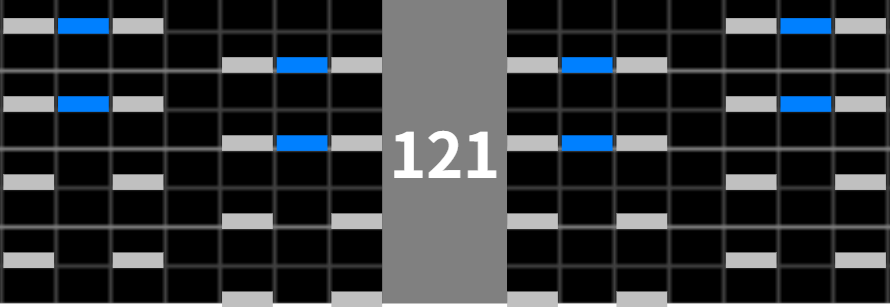
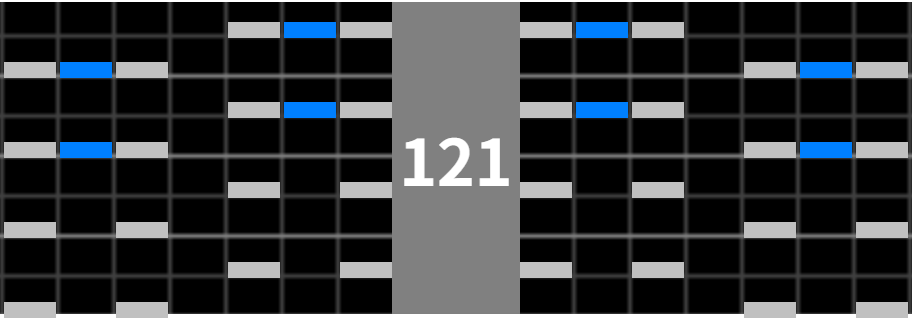
コラムとTOP説明文追加、その他軽微な修正

diff --git a/dbr_column.html b/dbr_column.html
@@ -118,10 +118,10 @@
     </div>
 
     <p>その後DBR難易度表の計画は実質的に停止しましたが、すでにある程度整備されておりそのままにしておくのは惜しい状態でした<br>
-    整備後のデータを拝借し、上述のDBR Diff Chartから未反映の曲などを取り込んで作成したのがこの難易度表です</p>
+    整備後のデータを拝借し、前述のDBR Diff Chartから未反映の曲などを取り込んで作成したのがこの難易度表です</p>
 
     <div class="notice">
-    <p>便宜上DBR Diff Chartで未反映だった曲(☆12.35以下ほぼ全曲と一部楽曲)は同じ難易度に入れるようにしていますが、<br>
+    <p>便宜上DBR Diff Chart内の未反映だった曲(☆12.35以下ほぼ全曲と一部楽曲)は同じ難易度に入れるようにしていますが、<br>
     アシストイージー基準だったこともあり、イージー基準の本表とはズレが生じている場合があります<br>
     具体的にはラス殺しや後半回復の譜面などは、ボーダー20%の差が大きく出るものと考えられます<br>
     また、DBR Diff Chartは全体的に同時押し系が低めに見積もられがちな傾向があるようです</p>
@@ -141,14 +141,12 @@
     <p>※PEN～CB頃にあった、EXPERTモードとオリジナルコースを利用したDBR段位とは別物です</p>
     </div>
 
-    <p>その為、計画段階の難易度表が段位設定のソースとして使用されており、例えば#40段位なら12.40の楽曲で構成されています<br>
+    <p>その為、計画段階の難易度表が段位設定のソースとして使用されており、例えば#40段位なら☆12.40の楽曲で構成されています<br>
     イージー基準ではなくアシストイージー基準、4曲通しでプレーし3曲クリアで合格と、段位としてのプレー感を重視した変更、<br>
     またプレーのフィードバックを受けての曲入れ替えなどありましたが、おおむね表と同じレベルであると考えてよいです</p>
 
     <p>そういったご縁があり、当サイトでも<a href="./dbr_dan.html" target="_self">2024年11月版のDBR段位(仮)</a>を掲載させていただいております<br>
     腕試しや、難易度表内でプレーする楽曲に迷った際など、是非使ってみてください</p>
-
-    <p>
   </div>
 
   <div class="section-box">
@@ -285,7 +283,7 @@
         <div style="text-align: center; font-size: 0.9em; margin-top: 4px;">123⇔567の往復</div>
     </div>
     
-    <p><a href="https://textage.cc/score/25/npapabbq.html?BAB64R0123456707654321~121-121" target="_blank">ここ</a>を指先だけで取る場合、中指を大きく左右に往復しなければならないのがわかると思います<br>
+    <p><a href="https://textage.cc/score/25/npapabbq.html?BAB64R0765432101234567~121-121" target="_blank">ここ</a>を指先だけで取る場合、中指を大きく左右に往復しなければならないのがわかると思います<br>
     ベチャかスライドを使用した場合、この往復は必要ありません<br>
     左右両側で使用する場合、中指すら使用しなくてよくなります</p>
 
@@ -312,10 +310,119 @@
     ベチャ押しでもスライドでも、6個押しがある事を前提とした引き出しを持っておくと楽しく押せます</p>
 
     <p>筆者は左567は親スライドがメイン、右123は人ベチャ、左23と右56は薬ベチャです<br>
-    ちょっとしたコツとして、ベチャ押し時は指先で鍵盤を押す必要がなくなるので、多少手や指を反らすようにすると他指が釣られづらくなります<br>
-    ここからスタートが2だったら楽曲開始まで2抜け6個押しをしてみるなど、出せるようにコツコツやっていくのも有効です<br>
+    ちょっとしたコツとして、ベチャ押し時は指先で鍵盤を押す必要がなくなるので、<br>
+    多少手や指を伸ばす、反らすようにすると他指がつられづらくなります<br>
+    ここからスタートが2だったら楽曲開始まで2抜け6個押しをしてみるなど、出せるようにコツコツ慣らしていくのも有効です<br>
     スライドとベチャならベチャの方がより汎用的だと思いますが、自分に合うやり方を探してみてください<br>
     第一目標がDPで光らせたいの人はここまでの事を全て忘れてください</p>
+  </div>
+
+  <div class="section-box">
+    <h2>【ベチャ押しについて②】</h2>
+    <p>前項【ベチャ押し、スライド押しについて+6個押しについて】の最後に挙げた<br>
+    ベチャ押しのコツとして手や指を伸ばす、反らすという例について、意図が伝わりづらかったので補足します</p>
+    運指としてのベチャ押しを解説している文章がほとんど見つからないので、せっかくですからなるべく詳しめに書きます<br>
+    (筆者は<a href="https://iidx.org/dp/joint" target="_blank">iidx.org / Using Finger Joints</a>くらいしか知りません もしご存じの方がいれば教えてください)</p>
+    
+    <p>まず、ベチャ押しする指だけを反らすのは人体の構造上かなり難しいと思います<br>
+    前項で運指確定までの時間を減らせる事をメリットの一つとして上げましたが、<br>
+    であればその度に複雑な動作を必要とするのはかなり非合理的なアプローチです</p>
+
+    <p>この「反らせる」は、ベチャ押しをする指だけを反らすという意味ではなく、<br>
+    指全体を軽く反らして鍵盤から浮かせることにより、意図しない指の接触を減らす事が主目的です</p>
+
+    <div style="max-width: 500px;">
+        <img src="picture/npapa.png" alt="123⇔567往復" style="max-width:100%; height: auto;">
+        <div style="text-align: center; font-size: 0.9em; margin-top: 4px;">再び登場</div>
+    </div>
+    
+    <p><a href="https://textage.cc/score/25/npapabbq.html?BAB64R0765432101234567~121-121" target="_blank">この配置</a>をベチャ押しで取る場合について考えてみましょう<br>
+    内側は親ベチャという選択肢もありますが、あまりにも掌での誤爆を誘発しやすいため、<br>
+    ここでは人ベチャ⇔薬ベチャで往復する場合を考えます</p>
+
+    <p>鍵盤から手を離し人差し指、薬指を中心に軽く反らす→中指は更に上げる→親人、小薬と下ろす<br>
+    という手順を踏むと、中指を4鍵に触れさせない形を保ったまま動かすことができると思います<br>
+    下ろす動作が難しければ、ベチャ押しの動きに合わせて手首を左右に捻り、指ごと押し付けるような動作を加えるとより押しやすくなります</p>
+
+    <p>ではこれが実戦で使えるか？という点ですが、応用を考えるとこの手順の有用さがわかると思います</p>
+
+    <div style="max-width: 500px;">
+        <img src="picture/vadbr.png" alt="V(A)DBR" style="max-width:100%; height: auto;">
+        <div style="text-align: center; font-size: 0.9em; margin-top: 4px;"><a class="nonecolor-link" href="https://textage.cc/score/5/v_taka.html?BAC04R0175362404263571~61-61" target="_blank">デニムならなんでもいいですが</a></div>
+    </div>
+
+    <p>左1234⇔567、右123⇔4567の形です いわゆるデニムのガチ割れ配置<br>
+    これが前述の123⇔567と違うのは、4があるかないかだけですね</p>
+    
+    <p>では先ほどの動きに加えて、今度は小薬と一緒に中指も下ろしてみましょう<br>
+    さっきよりも力が入りやすく、少し動かしやすいのではないでしょうか</p>
+
+    <p>「いや、動かしづらいけど……」と思った方、もしかすると4鍵を指先で叩くことを意識して中指を曲げようとしていないでしょうか<br>
+    腱や神経の関係で、指を曲げる動作と伸ばす動作を同時に行うのは困難です<br>
+    中指と薬指は、もし「指の独立性」の話を聞いたことがあればかなり結合が強い塊であることはご存知でしょう<br>
+    指を使う音楽ゲームで楽器経験者が有利とされる論拠としてもしばしば話題に上がります</p>
+
+    <p>翻って、IIDXの鍵盤の構造を考えてみましょう<br>
+    手を鍵盤に合わせた時、手の角度を変えなければ中指の下には4鍵しかありません<br>
+    前述の動きを行う時、それぞれ右23は伸ばした人差し指、右56は伸ばした薬指が担当しています<br>
+    ……4鍵を指先で取るメリットは一体何でしょうか？</p>
+
+    <div style="max-width: 350px;">
+        <img src="picture/homupozi.png" alt="親人人中薬薬小" style="max-width:100%; height: auto;">
+        <div style="text-align: center; font-size: 0.9em; margin-top: 4px;"><a class="nonecolor-link" href="https://blog-imgs-45-origin.fc2.com/p/o/t/potofu412/unsi_view.html" target="_blank">HTML5版運指ジェネレータはまだ使えます</a></div>
+    </div>
+
+    <p>つまり、そもそも中指も伸ばしたままでよいということです<br>
+    同時押しに4鍵がなければ浮かす、4鍵があれば下ろす、これだけです</p>
+
+    <p>一応言及しておくと、厳密に考えるとそうでもない形も存在します<br>
+    左123467、右124567の場合を考えてみましょう</p>
+
+    <div style="max-width: 500px;">
+        <img src="picture/123467_124567_1.png" alt="123467_124567_1" style="max-width:100%; height: auto;">
+    </div>
+
+    <p>この形の場合、左5右3を巻き込まないために人差し指を曲げる必要がありますね<br>
+    前述した指の結合は人差し指と中指にも存在しますから、中指を伸ばそうとすると人差し指もつられることになります<br>
+    従ってこの形の場合は人差し指を曲げやすくするために中指の力を緩める必要があります<br>
+    最終的には人差し指が少し曲がる、薬指が伸びる、中指がその中間(薬指の方が影響が強いので、少し伸び気味になるか)のような状態になります<br>
+    こればかりは慣れというほかないですが、いわゆる「指の独立性」がべらぼうに必要か、といえばそういうわけではありません</p>
+
+    <div style="max-width: 500px;">
+        <img src="picture/123467_124567_2.png" alt="123467_124567_2" style="max-width:100%; height: auto;">
+        <div style="text-align: center; font-size: 0.9em; margin-top: 4px;"><a class="nonecolor-link" href="https://textage.cc/score/24/brogamer.html?BAB64R0523174603572461~51-51" target="_blank">実戦で出現する例</a></div>
+    </div>
+
+    <p>ただし、運指に中3、中5を混ぜたい場合は極めて高い「指の独立性」が必要になるかと思います<br>
+    例えばそもそも左薬2中5、右中3薬6の時点で分離して動きづらい指同士を曲げ伸ばしするかなり無理がある動きで、<br>
+    そこから更に薬指を伸ばす、そんな動きを常用するというのは至難の業ではないでしょうか<br>
+    筆者は密度が薄く同時押しでない場合に左中2、右中6をたまに使うくらいでほぼ中4固定です<br>
+    指に自信がある方以外は併用しない事をおすすめします</p>
+
+    <div class="notice">
+    <p>※注意<br>
+    本当の本当に完全固定を目指す段階など余程極まっていれば別かもしれませんが、単鍵の3、5は普通に指先で押しましょう<br>
+    2、6を押さないようにかなり無理な反らせ方をする必要が生じてしまいます ベチャ始動で下段が残るCN以外で使うのはやめておきましょう<br>
+    ベチャ押しは12467ホームポジションの延長、補完だと考えるのが自然で、<br>
+    2から3、6から5…という風に上段のおまけとして考えるのが馴染みやすいと思います<br>
+    基本はリラックスしてホームポジションです そして極力精密さを要求される動作にならないように使う場面は絞りましょう<br>
+    左3、右5の単押しで薬ベチャを使ったり、左56、右23で親指が余っているのに人ベチャを使ったりはしなくてよいです<br>
+    1つの指が2個鍵盤を担当するという事自体、指に倍負荷がかかるといえるわけで、馴染むまでやりすぎは禁物です</p>
+    </div>
+
+    <p>余談ですが、SPでベチャ押しと言えばほぼ親指の話かと思いますが、DPで親ベチャについてほとんど語られないのはなぜでしょうか<br>
+    前半で少し触れましたが、非常に誤爆を誘発しやすいからかと思います<br>
+    SPでは親指を寝かせてもスクラッチ側2つしか鍵盤がありませんが、DPで同じ動きをすると下手したら5個ぐらい押されると思います</p>
+
+    <p>ところで前項にて筆者の左567は親スライドメインと書きましたが、場合によってはそんな親ベチャを使用する事があります<br>
+    567が一度に降るCN、素早く連続で降ってくる567同時押しなどです<br>
+    見ての通り共通するのは精密さを要求されない動きですから、これしかないとなればやるしかありません<br>
+    123⇔567で紹介した手首を捻る動作……どころではないぐらい大げさに手を傾け<br>
+    (チョップの角度を0、通常のホムポジを5としたら7～8ぐらいのイメージ)<br>
+    なるべく拇指球(親指付け根部分)を内側に寄せるなどして誤爆を防ぎます……が、人ベチャの方がスムーズな気がします<br>
+
+    <p>習得難易度は人ベチャより親スライドの方が低く感じますが、いざそこからベチャろうとした時こういった動きになるところは注意が必要です<br>
+    筆者は両親スライドから右だけ人ベチャが使えるようになり今に至っています</p>
   </div>
 
   <div class="section-box">
@@ -335,11 +442,10 @@
     通常譜面をハードした時のBPは多くても60～70台が相場ですが、これが3000ノーツを超えると90～100以上となることも珍しくありません<br>
     一方ノマゲ以下の回復量はノーツ量によって減っていくため、イージー時はどの難易度帯でもおおむね同程度のBPとなります</p>
     
-    <p>わざわざ「ノマゲ以下」と言っていますが、つまり上昇量はイージーでも変わらないということです 某ゲームのような1.2倍補正はありません<br>
-    減少量だけが変わっており、具体的にはノマゲはイージー以下の1.25倍減るようになっています<br>
-    またイージーとアシストイージーはクリアボーダー以外上昇量も減少量も変わりません<br>
+    <p>ちなみに「ノマゲ以下」と言っていますが、つまり上昇量はイージーでも変わらないということです 某ゲーム2のような1.2倍補正はありません<br>
+    減少量だけが変わっており、具体的にはノマゲはイージー以下の1.25倍減るようになっています(逆が2割軽減とも言います)<br>
+    また、イージーとアシストイージーはクリアボーダー以外上昇量も減少量も変わりません<br>
     もともとクリアランプが点かないゲームですから、アシストイージーで80%残った時にイージーと言い張って特に問題はないと思います</p>
-
 
     <p>ちなみに当サイトのDBR難易度表はイージー基準で運営していますが、もしハードの方が簡単だと感じればその難易度で提案可能です<br>
     より厳密に書くならばDBR難易度表（イージー以上）とすべきですが、あまり気にする人はいないと思います……</p>
@@ -350,18 +456,83 @@
     <p>ゲージ回復量の算出には総ノーツ数が使用されます<br>
     DBR譜面としての実質的なノーツ数はスクラッチを抜いた数ですから、<br>
     場合によっては似たようなレベルの譜面でもゲージ回復量が全然違うということもあり得ます</p>
-    <div style="max-width: 594px;">
-        <img src="picture/こういうこともある.png" alt="ゲージ回復量が違う" style="max-width:100%; height:auto;">
+    <div style="max-width: 500px;">
+        <img src="picture/kyokutan.png" alt="こういうこともある" style="max-width:100%; height:auto;">
         <div style="text-align: center; font-size: 0.9em; margin-top: 4px;">極端な例</div>
     </div>
     
     <p>ミスのリカバリーが厳しくなるので、妙に難しいと思ったらゲージ回復量にも目を向けてみてください<br>
-    ゲージ回復量が減少した境界値付近も相対的に難しくなります ポップンでいう微辛ゲージに近いイメージです</p>
+    ゲージ回復量が減少した境界値付近も相対的に難しくなります ご存じであればポップンの微辛ゲージを考えるとイメージしやすいです</p>
     
-    <p>管理用スプレッドシートでノーツ数とスクラッチ数を分けて入力するようになっているのはこれが理由です<br>
-    ノーツ数はwikiに曲とセットで載っている事が多く即データ化できるという事情もありましたが、<br>
-    スクラッチ数に関してはtextageで譜面を開くと左下に鳥ボーダーなどと一緒に載っているためそちらがデータ元になっています<br>
+    <p>管理用スプレッドシートでノーツ数とスクラッチ数を分けて入力するようになっているのはこういった理由です<br>
+    (ノーツ数はwikiに曲とセットで載っている事が多く即データ化できるという事情もありましたが)<br>
+    スクラッチ数に関してはtextageで譜面を開くと左下に鳥ボーダーなどと一緒に載っているためそちらがデータの元になっています<br>
     ここに無ければ実質ノーツ数を表示するのは諦めていました DBRwikiは☆9～12まで全部出してましたが、どうやってたんでしょう……</p>
   </div>
+
+  <div class="section-box">
+    <h2>【ゲージシフトを考える】</h2>
+    <p>SOUND VOLTEXにARSというシステムがあります<br>
+    減少式ゲージ2種と通常ゲージ(ちょうどIIDXのエクハ、ハード、ノマゲのようなイメージ)が同時に走り、<br>
+    失敗時に自動で下のゲージに切り替わるシステムです<br>
+    ※参考:<a href="https://twitter.com/SOUNDVOLTEX573/status/1914584973975413162" target="_blank">https://twitter.com/SOUNDVOLTEX573/status/1914584973975413162</a></p>
+
+    <p>つまり選択したゲージに関係なく、プレー結果に応じて最も良いクリアランプを付けることができます 合理的<br>
+    某ゲームでGASと呼ばれる機能が実装されているので、そちらに馴染みがある方もいるかもしれません</p>
+    
+    <p>Pinky Crush現在、IIDXにこの類の機能は搭載されていませんが、<br>
+    【ゲージ回復量について】で触れたように、DBRは公式なクリアランプが点かないゲームのため、<br>
+    アシストイージーで80%残った場合はイージー扱いとすれば一部再現することができます</p>
+
+    <p>局所的なハズレであっという間に20%以上持っていかれる事がしばしばあるゲームですから、<br>
+    STEP UPモードでDB系が使えない事も踏まえると、STANDARDモードでの事故率の緩和は大きな意味があります<br>
+    Vディスクの溜まる速度が上がり、結果的にブラックパスの使用頻度が上がる事に繋がり……<br>
+    全体的に高難易度を選曲できる機会が増えることで、地力上昇に少なからず寄与してくれます<br>
+    またクリア埋めの観点からも二度手間を防げるのはモチベ維持にはプラスだと思います</p>
+
+    <p>ちなみに、一応理論的にはハード、エクハについても疑似ゲージシフトを行える方法はあります<br>
+    エクハならBP5以下(見逃し18%×5)、<br>
+    ハードならBP13以下(見逃し9%×8、補正後見逃し4.5%×5、表示上のゲージ残量は切り捨てなのでもう一個出すと死ぬ)<br>
+    (6th～10thのハードゲージの場合仕様が異なり、見逃し10%×9なのでBP9以下)<br>
+    であれば絶対に死んでいないことになります</p>
+
+    <p>……あまり実用的とは言えませんね<br>
+    BADや空POORをきっちりリザルトから算出すればもう少し緩くなるかもしれませんが、<br>
+    とにかく直感的でないので微妙だと思います 公式に実装してもらえるのを願うばかりです</p>
+
+    <p>余談ですが、ハード、エクハで回復を一切なしとする計算……<br>
+    ということはこれが以前存在したTIME HELLモードや一部作品におけるONE MORE EXTRA楽曲の許容BPです<br>
+    想像以上にゲージ仕様が厳しく感じたのも頷けますね</p>
+  </div>
+
+  <div class="section-box">
+    <h2>【旧作ゲージ事情】</h2>
+    <p>DBR難易度表のゲージ回復量の計算式は【ゲージ回復量について】にて紹介したページのものを使用させていただいていますが、<br>
+    その中に「GAME LEVELによる固定値」なるものが登場します<br>
+    GAME LEVELはAC18までとCS作品に存在する内部設定で、筐体ごとの設定値でゲージの増減量が変わるようになっていました<br>
+    (ハードゲージには影響がないとする話もあり、増加量が0.16%固定である話とノマゲの後述他機種との一致部分から未確認ですが真実味を感じます)<br>
+    ACは8段階(デフォルト4)、CSは一部作品を除いて5段階(デフォルト3)のようです</p>
+    
+    <p>上記計算式での境界値付近に当たる譜面について、いくつか近年のプレイ動画を確認しましたが、<br>
+    ゲージが増加するタイミングに差異は認められず、デフォルトGAME LEVELでの挙動は恐らくAC、CS共に同一であると考えられます</p>
+
+    <p>Resort Anthemまでのタイトル画面では、設定値が「GAME LEVEL : n(9th以前は単に「LEVEL n」表記)」のように表示されています<br>
+    オフライン稼働可能な最新作はRootage、その次でもLincleなので、<br>
+    よっぽどの事がない限りRAまでの旧作は「わかっている」ゲーセンが置いていると思われ、<br>
+    ゲームレベルが変わっている筐体に遭遇する事もほぼほぼないとは思いますが、一応見ておくと心構えができてよいかもしれません</p>
+
+    <p>余談ですが、ポップンでも同様にAC20まではGAME LEVELが存在しており、同じく一部CS作品を除き8段階(デフォルト4)だったようです<br>
+    こちらもゲージ増減に関わる設定ですが、<br>
+    増加量は辛ゲージになるノーツ数のボーダーも変わる為に強烈な難易度差があり<br>
+    (レベル1は辛ゲージになる曲が存在せず、レベル8は1025ノーツ以上が全て辛ゲージになる)、<br>
+    減少量もレベル8では3倍になるようで(現HARDが4倍)、<br>
+    IIDXよりゲーム難易度への影響が苛烈である為か、しばしばプレイヤー間で語り草となっていた設定でした</p>
+
+    <p>現行稼働時は辛ゲージを回避してクリアメダルを狙うといったある意味でハック的な側面もありましたが、<br>
+    ポップン特有の事情として、比較的IIDXよりもオフライン台が出回る量が多かったために、<br>
+    小さめのゲームコーナーなどで筐体内設定を適当に決められてしまい、結果BAD3で死ぬ台に遭遇しやすい……といった話もありました<br>
+    IIDXと違いタイトルでのGAME LEVEL表記もなく、プレイ前にできるのはお祈り以外ありません</p>
+  </div>
+  
 </body>
 </html>

diff --git a/index.html b/index.html
@@ -14,21 +14,26 @@
 <span style="font-size: 53pt;"><strong>DBR</span></strong><br>
 </center>
 
-メンテナンス中…………<br><br>
+<br><br>
 
-<a href="dbralle_normal.html">DBR難易度表(イージー)</a><br>
-<a href="dbralle_recommended.html">DBR難易度表(イージー)(おすすめ)</a><br>
-<a href="dbralle.html">DBR難易度表(イージー)(全譜面)</a><br>
-<a href="dbralle_inf.html">DBR難易度表(イージー)(INFINITAS)</a><br>
-<a href="dbralle_plusnew.html">DBR難易度表(イージー)(新規提案有)</a><br>
-<a href="dbralle_plusnewinf.html">DBR難易度表(イージー)(INFINITAS)(新規提案有)</a><br>
-<a href="dbralle_misatei.html" style="color: #ffffff; text-decoration: none;">DBR難易度表(イージー)(未査定有)</a><br>
-<a href="dbr_dan.html">DBR段位(仮)</a><br>
-<a href="dbr_dan_inf.html">DBR段位(仮)(INFINITAS)</a><br><br>
-<a href="dbr_column.html">コラム</a><br><br>
+<a style="font-size: 24pt;" href="dbralle_normal.html"><strong>DBR難易度表(イージー)</strong></a> … オーソドックスな難易度表です AC現行作品で遊べない曲は最下部に表示されます<br>
+<a href="dbralle_recommended.html">DBR難易度表(イージー)(おすすめ)</a> … よりおすすめ度の高い譜面のみを厳選して表示しています<br>
+<a href="dbralle.html">DBR難易度表(イージー)(全譜面)</a> … 逆に難易度査定済であればすべて表示します 曲数を求める方に<br>
+<a href="dbralle_inf.html">DBR難易度表(イージー)(INFINITAS)</a> … DBR難易度表(イージー)(全譜面)から、INFINITASでプレーできる譜面のみを表示しています 曲の解禁方法も併せて記載しています<br>
+<a href="dbralle_plusnew.html">DBR難易度表(イージー)(新規提案有)</a> … DBR難易度表(イージー)(全譜面)の内容に加え、管理用スプレッドシートで新規提案されている譜面を表示しています 更に曲数を求める方、難易度査定に協力していただける方に<br>
+<a href="dbralle_plusnewinf.html">DBR難易度表(イージー)(INFINITAS)(新規提案有)</a> … 同じく新規提案分を追加したINFINITAS版です 特にAC削除済曲やINF限定曲はこちらで見た方が早いです<br>
+<div style="color: #ffffff; text-decoration: none;"><a href="dbralle_misatei.html" style="color: #ffffff; text-decoration: none;">DBR難易度表(イージー)(未査定有)</a> … DBR難易度表(イージー)(全譜面)に加え、管理用スプレッドシート内未査定の全譜面を表示します 主にメンテナンス用ですが、新規提案の検討などにお使いください</div>
+<a href="https://docs.google.com/spreadsheets/d/1R-bgS7CZ1BBTzsk4KRKRSmBAZWNotZnQLfWtZFQr-Ek/edit?usp=sharing" target="_blank">管理用スプレッドシート</a> … DBR難易度表(イージー)共通の管理用スプレッドシートです 譜面の新規提案、難易度やおすすめ度の変更提案、その他表運営に関する事柄はすべてこちらに<br><br>
+<a href="dbr_dan.html">DBR段位(仮)</a> … 決められた4曲を連続でプレーし、3曲以上アシストイージーで合格となる疑似段位です(作:@DBR_MEN様 掲載許可いただきありがとうございます)<br>
+<a href="dbr_dan_inf.html">DBR段位(仮)(INFINITAS)</a> … INFINITASでプレーできる譜面のみを表示します 性質上4曲揃わない状態の段位が存在するので参考程度に<br><br>
 
-<a href="dbr12e.html">(旧コンテンツ)DBR ☆12難易度表(イージー)</a><br>
-<a href="dbr11e.html">(旧コンテンツ)DBR ☆11難易度表(イージー)</a><br>
+<a href="dbr_column.html">コラム</a> … 主にDBR関連のちょっとしたお話<br><br>
+
+連絡用<br>
+Twitter: ＠DBR_Difficulty<br><br>
+
+<div style="color: #ffffff; text-decoration: none;"><a href="dbr12e.html" style="color: #ffffff; text-decoration: none;">(旧コンテンツ)DBR ☆12難易度表(イージー)</a> … 上記難易度表に統合済です<br>
+<div style="color: #ffffff; text-decoration: none;"><a href="dbr11e.html" style="color: #ffffff; text-decoration: none;">(旧コンテンツ)DBR ☆11難易度表(イージー)</a> … 同じく統合済です<br>
 </body>
 
 </html>

diff --git a/dbralle_inf.html b/dbralle_inf.html
@@ -20,7 +20,7 @@
         (<a href="https://zenn.dev/waisky/articles/b97a35fe042b51" target="_blank">参考</a>)
       </li>
       <li>ノーツ数: 全ノーツ数からスクラッチの数を引いた値です。スクラッチの数が設定されていない場合、全ノーツ数を括弧付きで表示しています。</li>
-      <li>レベル査定済みの全譜面から、INFINITASに収録された譜面のみを表示しています。最新の収録状況を反映していない可能性があります。(<a href="./dbralle.html" target="_self">通常の表</a>はこちら)</li>
+      <li>レベル査定済みの全譜面から、INFINITASに収録された譜面のみを表示しています。最新の収録状況を反映していない可能性があります。(<a href="./dbralle.html" target="_self">AC用の表</a>はこちら)</li>
       <li>難易度表への新規提案、レベルの変更提案等は<a href="https://docs.google.com/spreadsheets/d/1R-bgS7CZ1BBTzsk4KRKRSmBAZWNotZnQLfWtZFQr-Ek/edit?usp=sharing" target="_blank">管理用スプレッドシート</a>で行っています。プレイした譜面を記録する程度の感覚で構いませんので、ぜひご協力をお願いします。</li>
       <li>読み込みに時間がかかります。難易度表が表示されない場合、しばらくお待ちください。</li>
     </ul>

diff --git a/dbralle_plusnew.html b/dbralle_plusnew.html
@@ -20,7 +20,7 @@
         (<a href="https://zenn.dev/waisky/articles/b97a35fe042b51" target="_blank">参考</a>)
       </li>
       <li>ノーツ数: 全ノーツ数からスクラッチの数を引いた値です。スクラッチの数が設定されていない場合、全ノーツ数を括弧付きで表示しています。</li>
-      <li>レベル査定済みの全譜面に加え、新規提案されている譜面を黄背景で表示しています。レベルの相対比較にお使いください。(<a href="./dbralle.html" target="_self">通常の表</a>はこちら)</li>
+      <li>レベル査定済みの全譜面に加え、新規提案されている譜面を黄背景で表示しています。レベルの相対比較にお使いください。(<a href="./dbralle.html" target="_self">新規提案なしの表</a>はこちら)</li>
       <li>難易度表への新規提案、レベルの変更提案等は<a href="https://docs.google.com/spreadsheets/d/1R-bgS7CZ1BBTzsk4KRKRSmBAZWNotZnQLfWtZFQr-Ek/edit?usp=sharing" target="_blank">管理用スプレッドシート</a>で行っています。プレイした譜面を記録する程度の感覚で構いませんので、ぜひご協力をお願いします。</li>
       <li>読み込みに時間がかかります。難易度表が表示されない場合、しばらくお待ちください。</li>
     </ul>

diff --git a/dbralle_plusnewinf.html b/dbralle_plusnewinf.html
@@ -21,7 +21,7 @@
       </li>
       <li>ノーツ数: 全ノーツ数からスクラッチの数を引いた値です。スクラッチの数が設定されていない場合、全ノーツ数を括弧付きで表示しています。</li>
       <li>レベル査定済みの全譜面から、INFINITASに収録された譜面のみを表示しています。加えて、新規提案されている譜面を黄背景で表示しています。レベルの相対比較にお使いください。</li>
-      <li>最新の収録状況を反映していない可能性があります。(<a href="./dbralle.html" target="_self">通常の表</a>はこちら)</li>
+      <li>最新の収録状況を反映していない可能性があります。(<a href="./dbralle_plusnew.html" target="_self">AC版の表</a>はこちら)</li>
       <li>難易度表への新規提案、レベルの変更提案等は<a href="https://docs.google.com/spreadsheets/d/1R-bgS7CZ1BBTzsk4KRKRSmBAZWNotZnQLfWtZFQr-Ek/edit?usp=sharing" target="_blank">管理用スプレッドシート</a>で行っています。プレイした譜面を記録する程度の感覚で構いませんので、ぜひご協力をお願いします。</li>
       <li>読み込みに時間がかかります。難易度表が表示されない場合、しばらくお待ちください。</li>
     </ul>